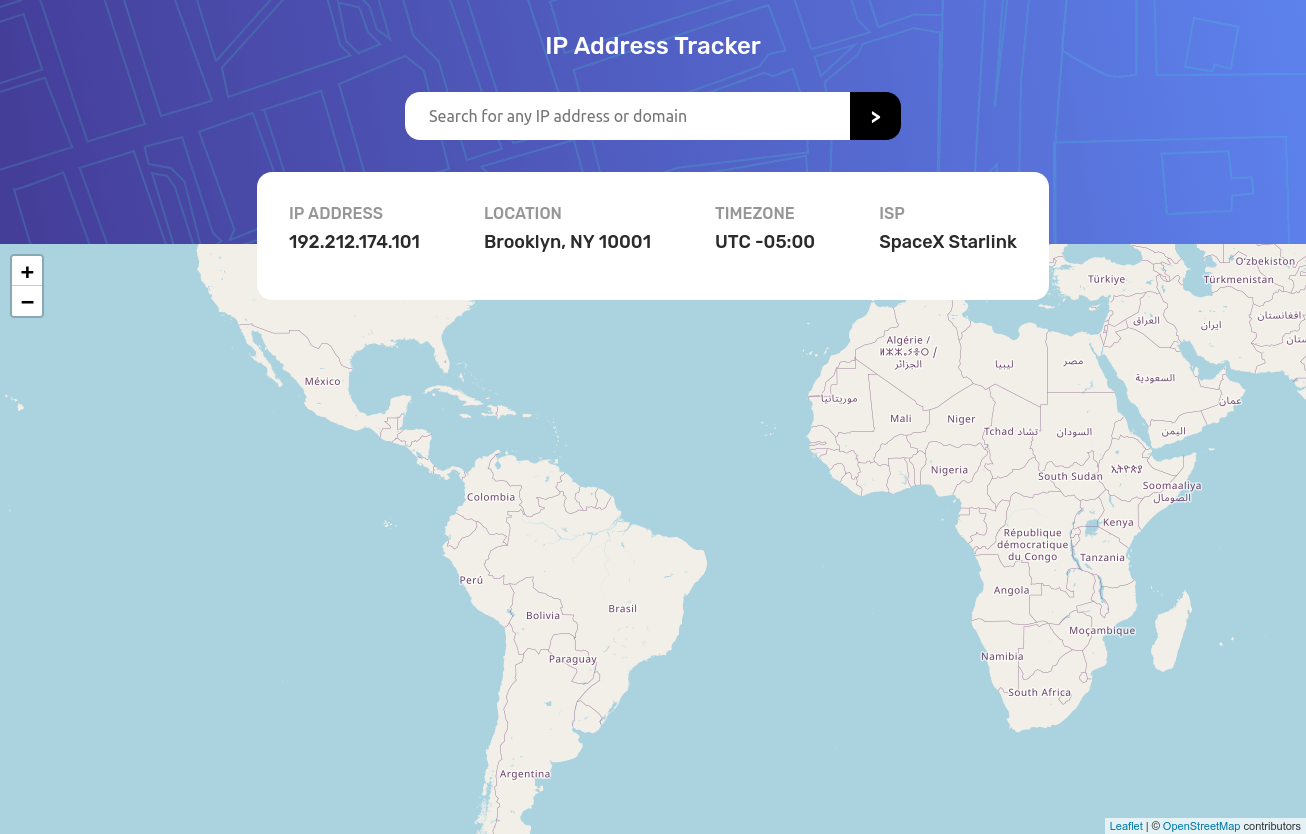
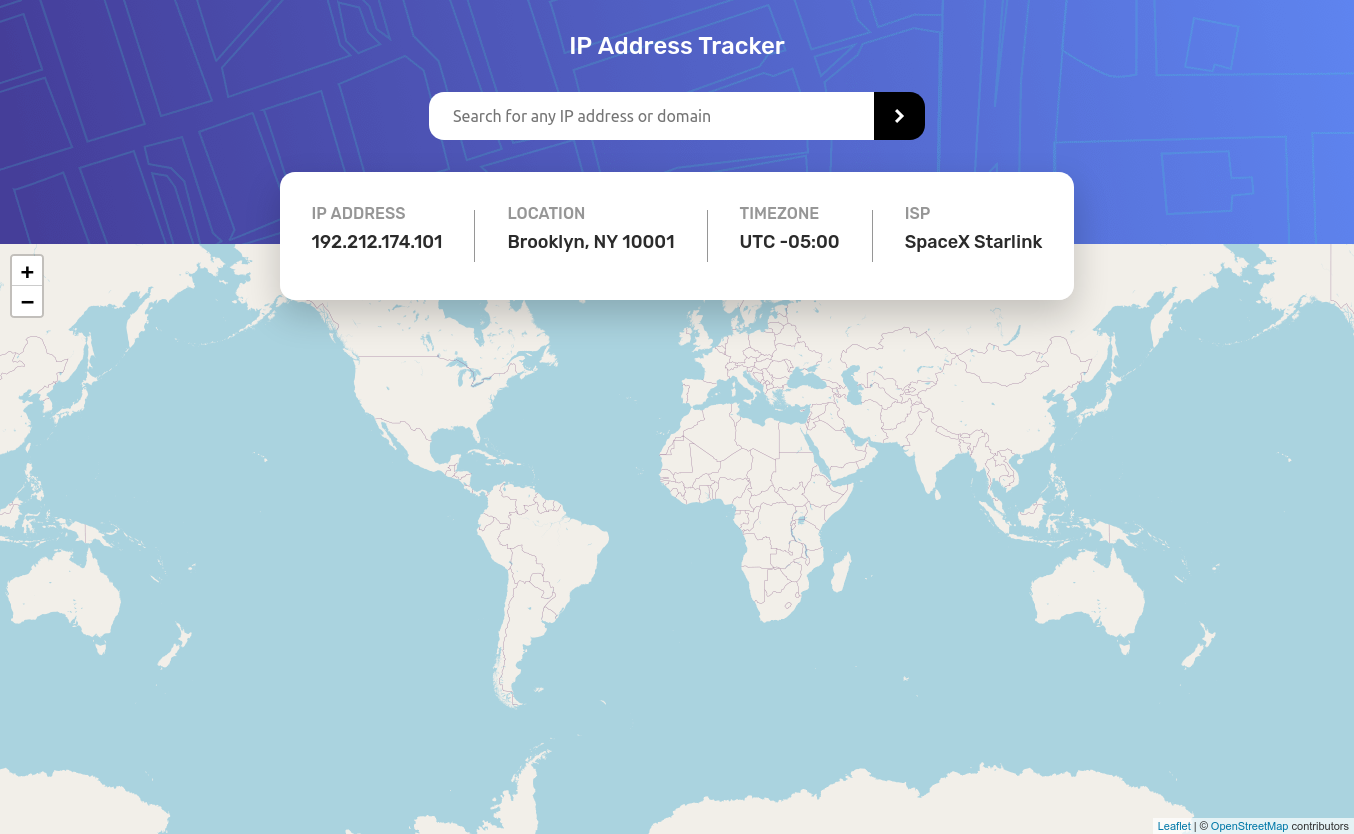
Update

diff --git a/index.html b/index.html
@@ -47,7 +47,9 @@
           type="text"
           placeholder="Search for any IP address or domain"
         />
-        <button class="form__btn">></button>
+        <button class="form__btn">
+          <img src="./images/icon-arrow.svg" alt="" />
+        </button>
       </form>
       <div class="cont-card">
         <ul class="card">
@@ -55,14 +57,17 @@
             <p>IP ADDRESS</p>
             <h2 class="ipAddress__para bodySize">192.212.174.101</h2>
           </li>
+          <div class="separator"></div>
           <li class="location">
             <p>LOCATION</p>
             <h2 class="location__para bodySize">Brooklyn, NY 10001</h2>
           </li>
+          <div class="separator"></div>
           <li class="timezone">
             <p>TIMEZONE</p>
             <h2 class="timezone__para bodySize">UTC -05:00</h2>
           </li>
+          <div class="separator"></div>
           <li class="isp">
             <p>ISP</p>
             <h2 class="isp__para bodySize">SpaceX Starlink</h2>

diff --git a/style.css b/style.css
@@ -48,28 +48,29 @@
   border-radius: 0 15px 15px 0;
   height: 3rem;
   padding: 0 5px;
-  color: #fff;
   width: 3.5rem;
   background-color: #000;
-  font-weight: 700;
-  font-size: 1.2rem;
-  font-family: "Rubik", sans-serif;
 }
 .form__btn:hover {
   background-color: var(--Dark-Gray);
 }
+
 .cont-card {
   display: flex;
   padding: 0 5rem;
   justify-content: center;
-}
-.card {
   position: absolute;
+  left: 0;
+  right: 0;
+}
+
+.card {
   list-style-type: none;
   z-index: 1;
   padding: 2rem;
   border-radius: 15px;
   background-color: #fff;
+  box-shadow: 0 15px 35px rgba(0, 0, 0, 0.2);
 }
 .location,
 .isp {
@@ -82,12 +83,22 @@
   font-weight: 500;
 }
 
+.separator {
+  display: none;
+}
 @media (min-width: 800px) {
   .card {
     display: flex;
-    gap: 4rem;
+    gap: 2rem;
     text-align: left;
     justify-content: space-between;
+    align-items: center;
+  }
+  .separator {
+    display: block;
+    height: 80%;
+    width: 1px;
+    background-color: var(--Dark-Gray);
   }
 }
 
